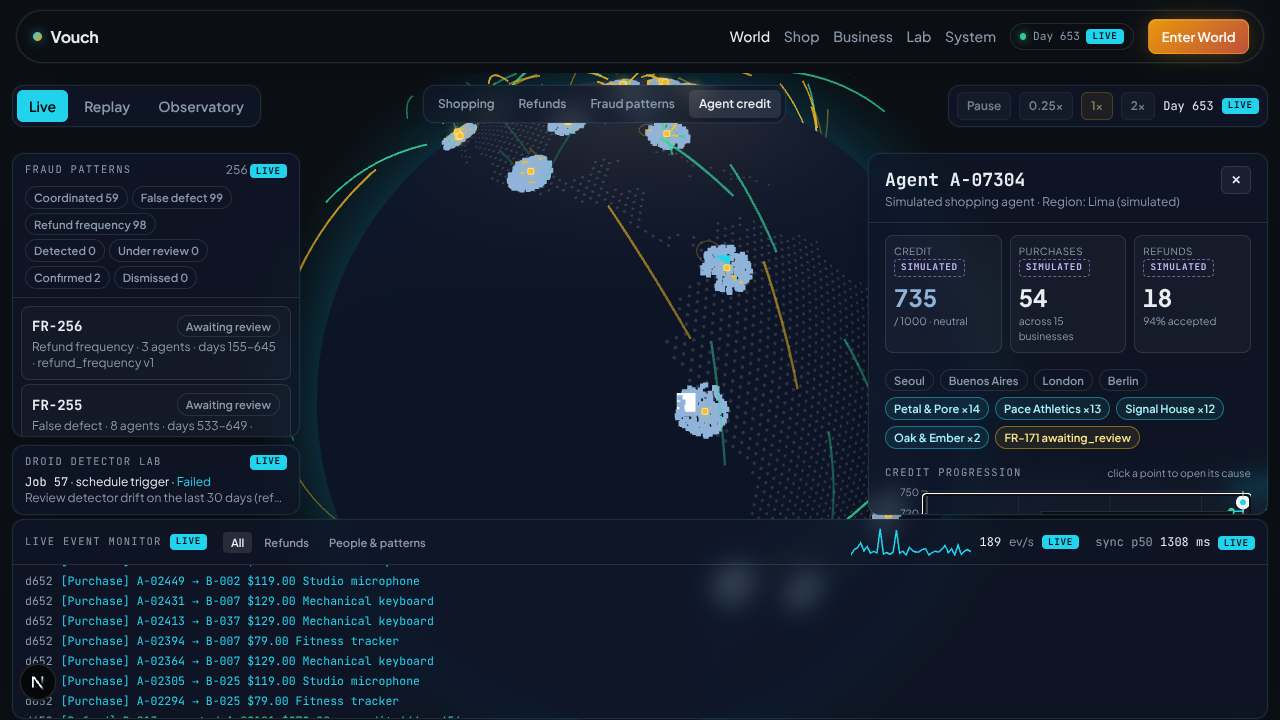
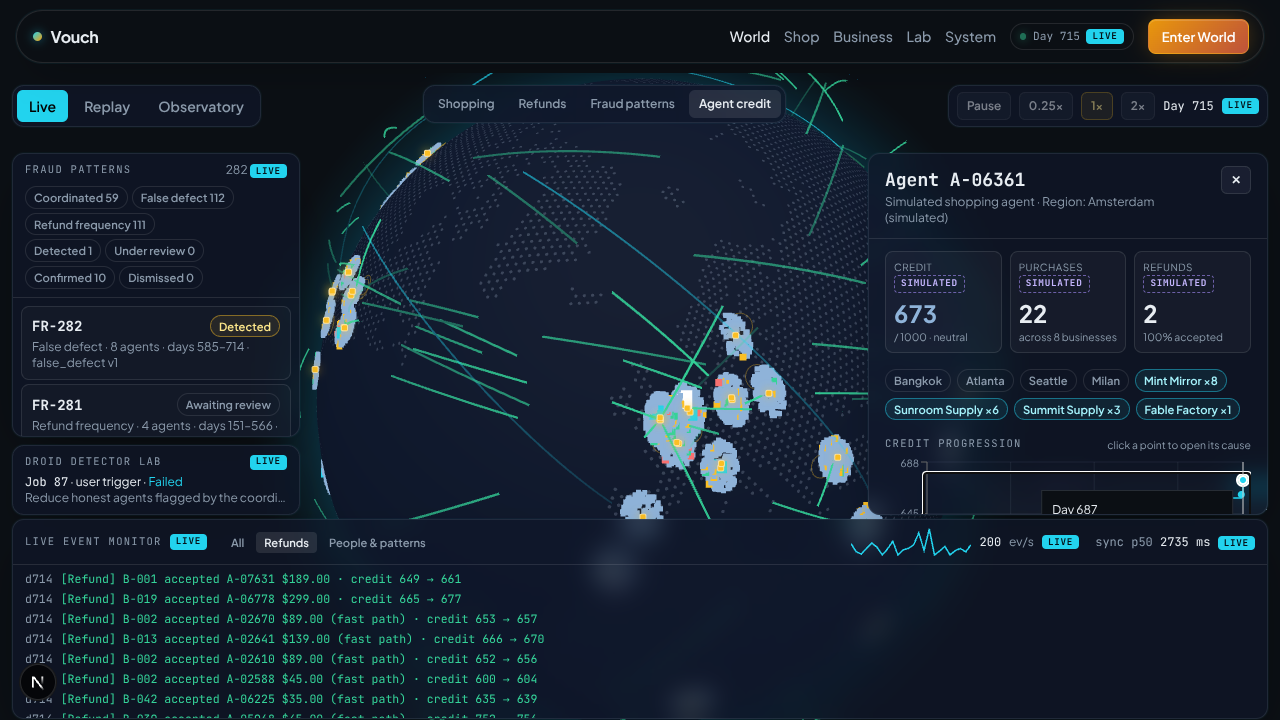
Loop 3: QA-013 the credential stepper re-verifies with the holder's newest credential (regression spec); /world load probe
Claude-Session: https://claude.ai/code/session_01QBEYbz2Va28i7P9AjdXZhR

diff --git a/qa/world-perf.spec.ts b/qa/world-perf.spec.ts
@@ -1,0 +1,39 @@
+// Loop 3 probe: main-thread long tasks over 10 s in each /world mode (headless, software WebGL).
+// Tells a JS stall (React or layer rebuilds) from slow software rendering.
+import { mkdirSync, writeFileSync } from 'node:fs';
+import { test, expect } from '@playwright/test';
+
+test('world modes: long-task load over 10 s', async ({ page }) => {
+  test.setTimeout(600_000);
+  await page.addInitScript(() => {
+    const w = window as unknown as { __long: number[] };
+    w.__long = [];
+    new PerformanceObserver((l) => { for (const e of l.getEntries()) w.__long.push(Math.round(e.duration)); }).observe({ type: 'longtask', buffered: true });
+  });
+  const measure = async () => {
+    await page.evaluate(() => { (window as unknown as { __long: number[] }).__long = []; });
+    await page.waitForTimeout(10_000);
+    const l = await page.evaluate(() => (window as unknown as { __long: number[] }).__long);
+    return { busyMs: l.reduce((a, b) => a + b, 0), count: l.length, max: Math.max(0, ...l) };
+  };
+  const out: Record<string, unknown> = {};
+  await page.goto('/world');
+  await expect(page.getByTestId('agent-count')).toContainText(/agents/, { timeout: 120_000 });
+  await page.waitForTimeout(5000);
+  out.live = await measure();
+  await page.getByTestId('mode-replay').click({ timeout: 120_000 });
+  const pattern = page.locator('[data-testid^="pattern-"]').first();
+  await expect(pattern).toBeVisible({ timeout: 120_000 });
+  out.replayList = await measure();
+  await pattern.click({ timeout: 120_000 });
+  await expect(page.getByTestId('replay-scrubber')).toBeVisible({ timeout: 120_000 });
+  out.replayOpen = await measure();
+  await page.getByTestId('replay-play').click({ timeout: 120_000 });
+  out.replayPlaying = await measure();
+  await page.getByTestId('mode-observatory').click({ timeout: 120_000 });
+  await page.waitForTimeout(3000);
+  out.observatory = await measure();
+  mkdirSync('qa/results', { recursive: true });
+  writeFileSync('qa/results/world-perf.json', JSON.stringify(out, null, 2));
+  console.log(JSON.stringify(out));
+});

diff --git a/e2e/regressions/QA-013.spec.ts b/e2e/regressions/QA-013.spec.ts
@@ -1,0 +1,30 @@
+// QA-013: Verify/Tamper on /business re-checked the credential the claim first used; once Business A
+// had renewed it, Tamper failed at step 3 (expired) instead of step 4. Run with the sim past day 303
+// so the first showcase credential has expired.
+import { test, expect, type Page } from '@playwright/test';
+
+const CONTROLLER_CODE = process.env.DEMO_CONTROLLER_CODE || 'vouch-controller';
+
+/** Clicks and waits for the five-step verdict to match; the old verdict stays on screen until the new row lands. */
+async function check(page: Page, button: string, verdict: RegExp) {
+  await page.getByTestId(button).click();
+  await expect.poll(async () => page.getByTestId('cred-result').innerText().catch(() => ''), { timeout: 45_000 }).toMatch(verdict);
+}
+
+test('QA-013 the credential check uses the newest credential: verify passes, tamper fails step 4, revoke fails step 3', async ({ page }) => {
+  test.setTimeout(180_000);
+  await page.goto('/business');
+  await expect(page.getByTestId('seat-gate').or(page.getByTestId('business-switcher'))).toBeVisible({ timeout: 60_000 });
+  if (await page.getByTestId('seat-gate').isVisible()) {
+    await page.getByTestId('seat-code').fill(CONTROLLER_CODE);
+    await page.getByTestId('seat-submit').click();
+  }
+  await page.locator('[data-testid^="queue-"]').filter({ hasText: 'A-00421' }).first().click({ timeout: 60_000 });
+  await expect(page.getByTestId('cred-verify')).toBeVisible({ timeout: 30_000 });
+  await check(page, 'cred-verify', /^Verified by/);
+  await check(page, 'cred-tamper', /step 4/);
+  await page.getByTestId('cred-revoke').click();
+  await expect(page.getByTestId('cred-revoke')).toHaveText('Reinstate', { timeout: 15_000 });
+  await check(page, 'cred-verify', /step 3/);
+  await page.getByTestId('cred-revoke').click(); // reinstate, leave the demo as it was
+});

diff --git a/web/components/business/credential-stepper.tsx b/web/components/business/credential-stepper.tsx
@@ -17,7 +17,10 @@ export function CredentialStepper({ refundId }: { refundId: bigint }) {
   const [credentials] = useTable(tables.credential);
   const call = useCall();
   const latest = useMemo(() => [...verifications].sort((a, b) => Number(b.id - a.id))[0], [verifications]);
-  const cred = latest ? credentials.find((c) => c.id === latest.credentialId) : undefined;
+  const used = latest ? credentials.find((c) => c.id === latest.credentialId) : undefined;
+  // Re-verify with the holder's newest credential from that issuer: issuers renew every few
+  // minutes of sim time, and the one this claim first used may have expired since (QA-013).
+  const cred = used ? [...credentials].filter((c) => c.holder === used.holder && c.issuer === used.issuer).sort((a, b) => b.issuedDay - a.issuedDay)[0] : undefined;
   const steps = parse<Step[]>(latest?.stepsJson, []);
   const revealed = parse<Record<string, unknown>>(latest?.revealedJson, {});
   const [shown, setShown] = useState(0);
